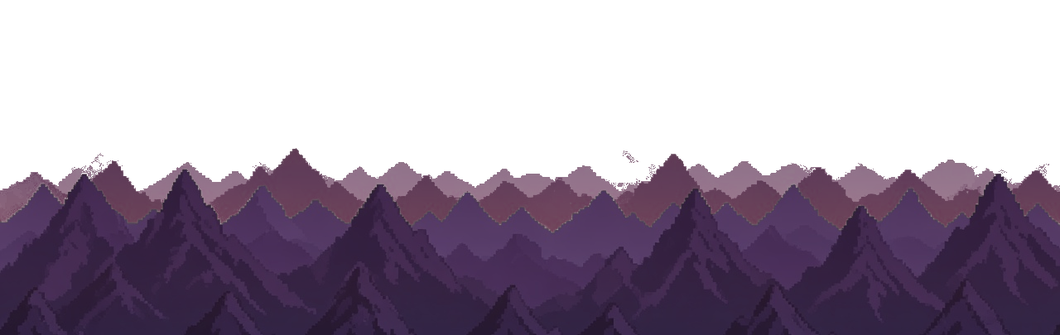
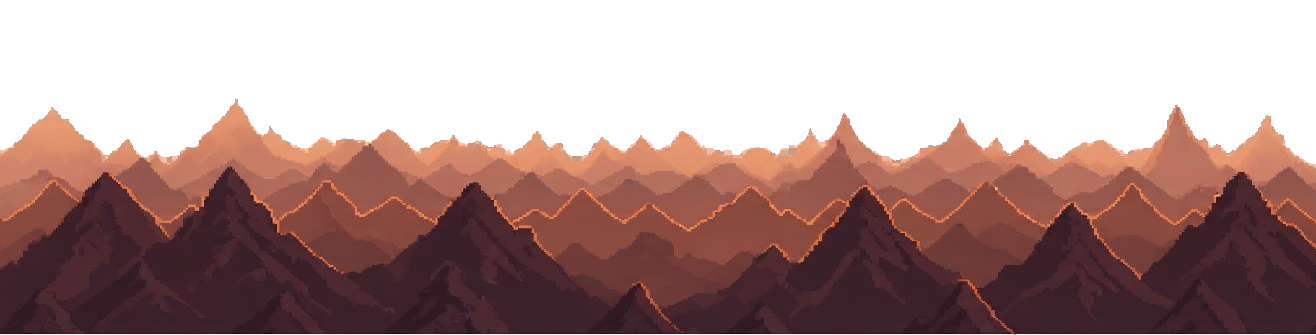
fix: extend title parallax art and update lore HUD regression tests

diff --git a/game/js/render.js b/game/js/render.js
@@ -639,10 +639,9 @@ let titleEssence = []; // FASE 1 FINAL - partículas essência subindo do formig
 let torchFlicker = 0;
 let dayPhase = 0;
 
-// Altura da camada de montanhas do menu: as 4 camadas de parallax são geradas
-// por tools/fix_title_parallax.py já no tamanho exato em que são desenhadas
-// (blit 1:1 — anti-aliasing embutido no PNG, sem reamostragem na tela).
-const MTN_DRAW_H = 335;
+// Arte TITLE com laterais pintadas (+128 px por lado), desenhada em 1:1.
+// Principal e frente: +16 px de solo abaixo para cobrir o movimento vertical.
+const TITLE_SIDE_PAD = 128;
 
 function ensureMotes() {
   if (titleMotes.length) return;
@@ -867,8 +866,8 @@ export function drawTitleBg(ctx) {
   
   if (hasParallax) {
     // parallax real com mouse direto - 4 CAMADAS (não 5)
-    const mx = (mouse && mouse.x ? mouse.x : VIEW_W/2);
-    const my = (mouse && mouse.y ? mouse.y : VIEW_H/2);
+    const mx = Math.max(0, Math.min(VIEW_W, mouse?.x ?? VIEW_W/2));
+    const my = Math.max(0, Math.min(VIEW_H, mouse?.y ?? VIEW_H/2));
     const offsetX = (mx - VIEW_W/2);
     const offsetY = (my - VIEW_H/2);
     
@@ -878,24 +877,22 @@ export function drawTitleBg(ctx) {
     const skyImg = IMG.parallax_sky;
     const skyOffX = offsetX * 0.01 + Math.sin(time * 0.008) * 6;
     const skyOffY = offsetY * 0.005 + Math.sin(time * 0.005) * 2;
-    ctx.drawImage(skyImg, skyOffX - 40, skyOffY - 20, VIEW_W + 80, VIEW_H + 40);
+    ctx.drawImage(skyImg, skyOffX - 40 - TITLE_SIDE_PAD, skyOffY - 20);
 
     // ----- CAMADA 3: Montanhas silhueta (meio-fundo, 0.03x) -----
-    // ALTURA 335 = altura do PNG (tools/fix_title_parallax.py gera cada camada
-    // já no tamanho exato do drawImage). Antes era VIEW_H * 0.62 = 334.8,
-    // o que forçava reamostragem e borrava a crista.
+    // Altura nativa de 335 px, sem reamostragem da crista.
     const mtnImg = IMG.parallax_mountains;
     const mtnOffX = offsetX * 0.03 + Math.sin(time * 0.012) * 8;
     const mtnOffY = 20 + offsetY * 0.01 + Math.sin(time * 0.01) * 3;
     ctx.globalAlpha = 0.96;
-    ctx.drawImage(mtnImg, mtnOffX - 50, mtnOffY, VIEW_W + 100, MTN_DRAW_H);
+    ctx.drawImage(mtnImg, mtnOffX - 50 - TITLE_SIDE_PAD, mtnOffY);
     ctx.globalAlpha = 1;
 
     // ----- CAMADA 2: Principal - gramado + ruínas esquerda + formigueiro direita-centro (0.08x) -----
     const mainImg = IMG.parallax_main;
     const mainOffX = offsetX * 0.08 + Math.sin(time * 0.015) * 6;
     const mainOffY = 10 + offsetY * 0.025 + Math.cos(time * 0.012) * 2;
-    ctx.drawImage(mainImg, mainOffX - 30, mainOffY, VIEW_W + 60, VIEW_H - 5);
+    ctx.drawImage(mainImg, mainOffX - 30 - TITLE_SIDE_PAD, mainOffY);
 
     // FASE 1 FINAL - luz formigueiro pulsante com partículas (escolha particulas) - sem tochas, só cristais
     ctx.save();
@@ -922,7 +919,7 @@ export function drawTitleBg(ctx) {
     const fgImg = IMG.parallax_foreground;
     const fgOffX = offsetX * 0.15 + Math.sin(time * 0.02) * 4;
     const fgOffY = offsetY * 0.04;
-    ctx.drawImage(fgImg, fgOffX - 40, fgOffY, VIEW_W + 80, VIEW_H);
+    ctx.drawImage(fgImg, fgOffX - 40 - TITLE_SIDE_PAD, fgOffY);
 
     // FASE 1 FINAL - ciclo dia/noite 60s tint FORTE (escolha tint_forte): dia laranja quente / noite azul escuro 0.75 + estrelas
     const dp = (time * 0.016666) % 1; // 60s exatos

diff --git a/tools/fix_title_parallax.py b/tools/fix_title_parallax.py
@@ -344,6 +344,15 @@ def main():
     ap.add_argument("--restore", action="store_true", help="devolve os originais de _orig/")
     args = ap.parse_args()
 
+    # The 2026-09-22 outpainted art is final artwork, not legacy chromakey input.
+    # Never shrink it back to the old TARGET sizes or restore mismatched layers.
+    if Image.open(os.path.join(MENU, F_SKY)).width > TARGET[F_SKY][0]:
+        if args.report:
+            for f in (F_SKY, F_MTN, F_MAIN, F_VINE):
+                measure(f, *imread_rgba(os.path.join(MENU, f)))
+            return
+        ap.error("Arte TITLE expandida: reparo legado bloqueado para preservar laterais e escala 1:1.")
+
     if args.restore:
         step_restore()
         return

diff --git a/MEGA_ARQUIVO.md b/MEGA_ARQUIVO.md
@@ -1980,3 +1980,45 @@ determinístico — sementes fixas + `-limit thread 1` + `-strip`, verificado co
 `drawAnt`/`drawBoss` (`game/js/render.js`), rastro pálido removido de
 `game/js/enemies.js`. Olhos/elipse pálida/aura removidos; orbes + coroa da
 fase 2 mantidos. Suíte 13/16 (3 falhas pré-existentes, iguais ao baseline).
+
+## Registro — TITLE: extensão lateral e revisão da vegetação (2026-09-22)
+
+Escopo aprovado: estender as quatro camadas, sem zoom no render. Após rejeitar
+alternativas iniciais, o usuário aprovou vegetação mais baixa com pontas finas e
+montanhas pontudas mais alaranjadas, coerentes com o céu do pôr do sol.
+
+- PNGs em `game/assets/parallax/menu/`: +128 px de cada lado; centro do céu e
+  cenário principal preservado. Frente e montanhas revisadas conforme aprovação.
+  Fundos sólidos/quadriculado dos arquivos gerados removidos no preparo.
+- Principal e frente: +16 px inferiores para cobrir deslocamento vertical;
+  vegetação frontal rebaixada 45 px no arquivo, sem alterar o movimento.
+- `game/js/render.js`: desenho nativo 1:1, origem compensada pelas margens;
+  coordenada zero válida e input limitado ao viewport. Mesmos assets no mobile.
+- Reparador legado protegido contra sobrescrever as novas artes.
+- Testes: 12 dos 13 testes documentados passaram; `lorehud.mjs` falha em
+  "carregamento idempotente" (5 !== 3), também reproduzida no HEAD original
+  extraído fora do checkout. Novo `title-parallax.mjs` passou.
+- Chromium headless: boot → TITLE em PC e mobile (tap), capturas dos quatro
+  cantos e centro; sem erros JS/HTTP. Inspeção identificou e removeu resíduo de
+  quadriculado na crista das montanhas. Preview local na porta 8000.
+
+## Registro — correção robusta do teste LORE HUD (2026-09-22)
+
+Pedido: corrigir a falha identificada na validação da TITLE. Escopo aprovado:
+correção do teste com proteção contra regressão, sem mudar visual/jogabilidade.
+
+Causa: `game/test/lorehud.mjs` ainda esperava três atlas; o carregador atual usa
+cinco (`panels`, `icons`, `gaster`, `textbox`, `kit`). O teste também enumerava
+`colonia` como se fosse um sétimo bioma com célula de alimento, embora seja tema
+neutro de menu. Não foi necessário modificar o carregador de produção.
+
+Correções: lista explícita de arquivos/dimensões esperados; mesma promessa em
+chamadas concorrentes e após resolução; nenhuma nova imagem em chamadas
+posteriores; seis biomas separados do tema de menu; recortes e cache de caixas,
+banners, molduras e quatro ícones do kit cobertos.
+
+Validação: 13/13 testes documentados + `title-parallax.mjs` aprovados (14/14).
+Chromium headless: PC e mobile do boot à expedição, introdução pulada pelo handler
+real; cinco requisições únicas dos atlas, promessa reutilizada, sete temas
+renderizados, sem erros JS/HTTP. Capturas do HUD inspecionadas. Preview :8000 ativo.
+Este registro resolve a pendência de `lorehud.mjs` citada na entrega anterior.

diff --git a/game/README.md b/game/README.md
@@ -241,12 +241,14 @@ defender a onda, coletar essência). `T` pula, e a preferência fica salva.
   berçário, despensa, postura da rainha, custo das câmaras.
 - `assets/` — sprites e fontes bitmap processados
 - `tools/prepare_assets.sh` — regenera os sprites a partir das fontes
-- `tools/fix_title_parallax.py` — repara as 4 camadas de parallax da tela TITLE
-  (`assets/parallax/menu/`): fecha os buracos do recorte, remove o chuvisco e o
-  verde do chromakey, harmoniza montanhas/vinhas com a paleta do céu e gera cada
-  camada já no tamanho exato que `drawTitleBg()` desenha (blit 1:1, com
-  anti-aliasing). Os originais ficam em `assets/parallax/menu/_orig/` (ignorado
-  pelo git) e o script aceita `--report` e `--restore`.
+- TITLE: quatro PNGs com +128 px pintados por lado, desenhados em escala 1:1.
+  Céu e cenário principal preservam o centro original; vegetação frontal e
+  montanhas foram refeitas com aprovação visual. Principal e frente possuem
+  +16 px de cobertura inferior. `test/title-parallax.mjs` valida cobertura nos
+  cantos, oscilação, coordenadas zero e ausência de redimensionamento no render.
+- `tools/fix_title_parallax.py` é o reparador **legado**: `--report` segue
+  disponível; escrita/restauração são bloqueadas nos PNGs expandidos, para não
+  destruir as novas margens com o processamento antigo.
 - `test/sim.mjs` — simulação headless da expedição inteira:
   - `node test/sim.mjs` — roda uma expedição desde o começo
   - `FORCE=N node test/sim.mjs` — pula direto para o chefão do mapa `N` (1–6) com um exército
